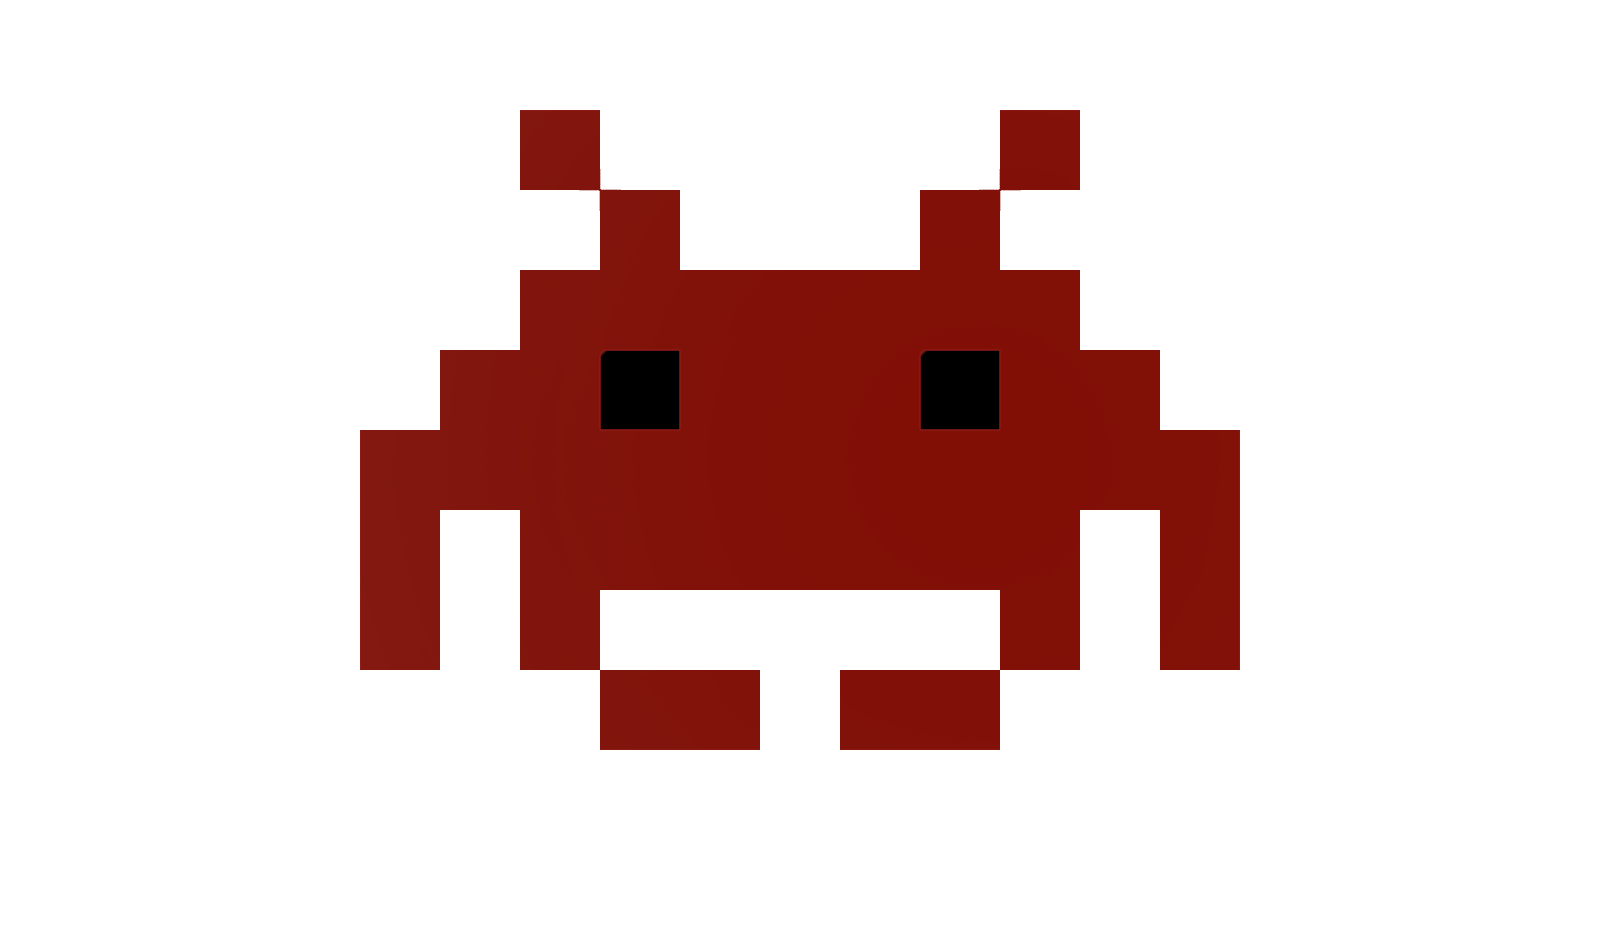
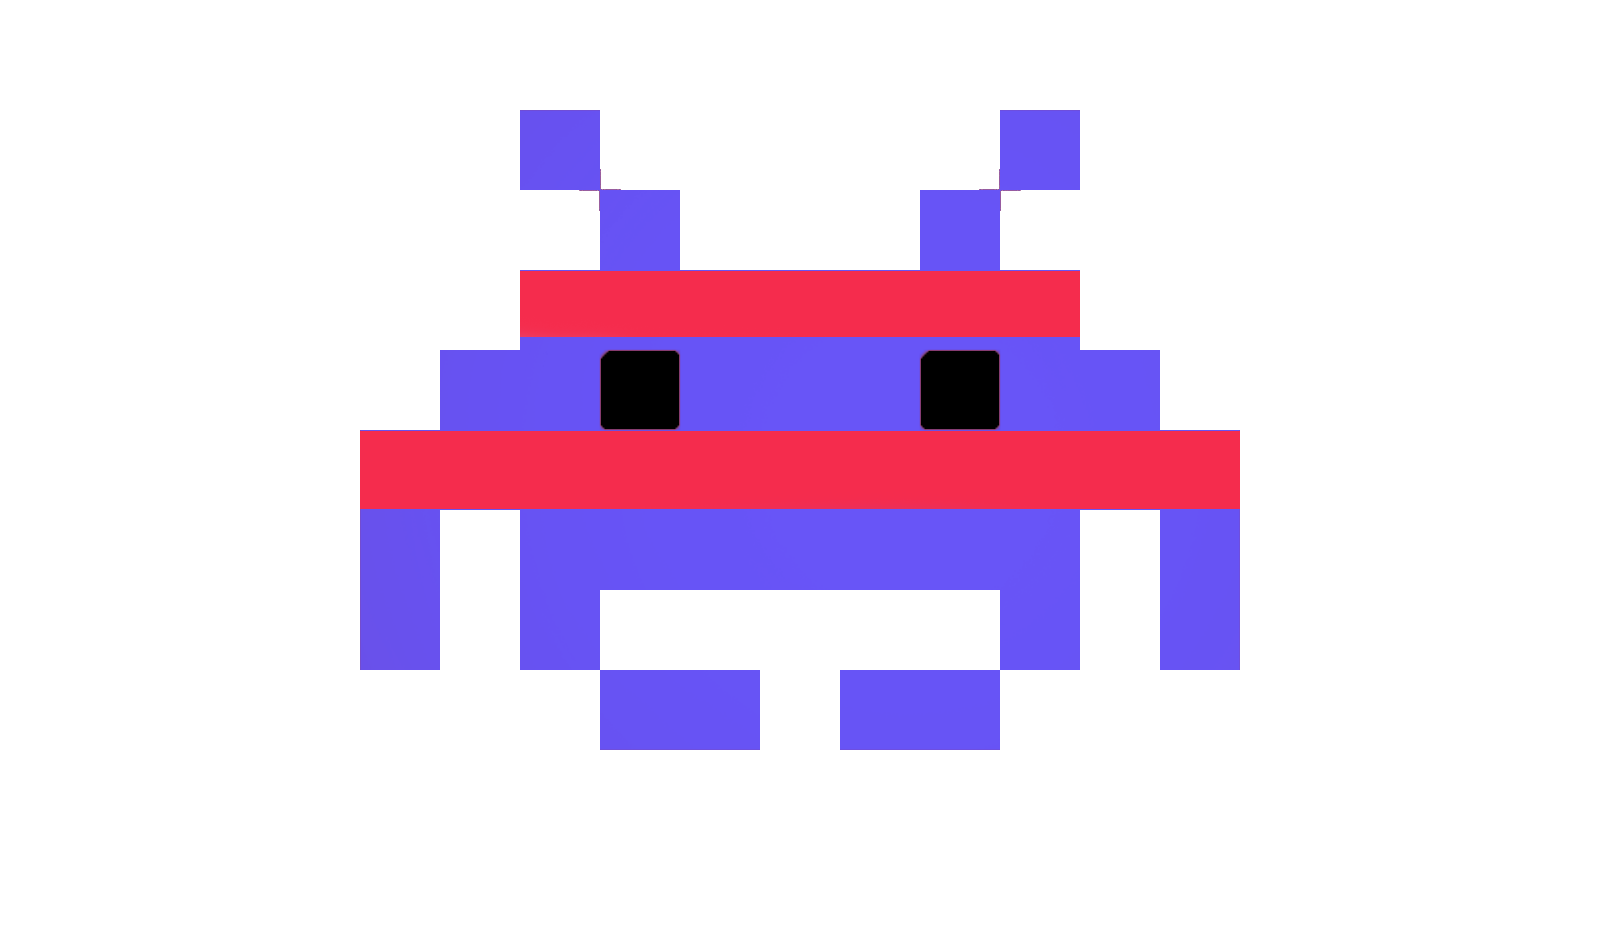
df

Changed region(s): [[0.2188, 0.0916, 0.7812, 0.7937]]

diff --git a/main.js b/main.js
@@ -11,6 +11,8 @@ var img_weapon = new Image();
 
 var img_monster_2 = new Image();
 
+var img_monster_3 = new Image();
+
 
 var bool = 1;
 var frameRateMonster = 800;
@@ -19,7 +21,7 @@ var frameRateWeaponMonster = 220;
 var positionSpaceShipIniX = [];
 var ammo_delay =3000;
 var ammo_amount = 2 ;
-var max_ammo = 10;
+var max_ammo = 15;
 
 
 var touch = new Audio("touch.mp3");
@@ -28,9 +30,9 @@ var gameElement = document.getElementById("game_area");
 var state_btn = document.getElementById("state_btn");
 var scoreElement = document.getElementById("score_display");
 var ammoElement = document.getElementById("ammo_display");
-//var ammo_bar = document.getElementById("ammo_bar");
+var ammo_bar = document.getElementById("ammo_bar");
 
-//ammo_bar.setAttribute("max",max_ammo);
+ammo_bar.setAttribute("max",max_ammo);
 
 // Interval variables
 var weapon_ID;
@@ -84,10 +86,14 @@ var monster  = {
                 if( tabTest[i].vie == 2 ) {
                     ctx.drawImage(img_monster_2, 0, 60, 1600, 950, tabTest[i].x, tabTest[i].y, 65, 40);
                 }
+                if( tabTest[i].vie == 3 ) {
+                    ctx.drawImage(img_monster_3, 0, 60, 1600, 950, tabTest[i].x, tabTest[i].y, 65, 40);
+                }
             }
         };
         img_monster.src = "img/mechant1.png";
         img_monster_2.src = "img/mechant2.png";
+        img_monster_3.src = "img/mechant3.png";
     },
 };
 
@@ -353,7 +359,7 @@ function new_ammo () {
     ammoElement.innerHTML = "Ammo : "+game.ammo;
     new_ammo_ID = setTimeout(new_ammo,ammo_delay);
             
-         //   ammo_bar.setAttribute("value",game.ammo);
+            ammo_bar.setAttribute("value",game.ammo);
         }
 
 }
@@ -388,7 +394,7 @@ function fire() {
             game.ammo--;
             console.log(game.ammo);
             ammoElement.innerHTML = " Ammo : "+game.ammo;
-         //   ammo_bar.setAttribute("value",game.ammo);
+            ammo_bar.setAttribute("value",game.ammo);
             
         }
 

diff --git a/style.css b/style.css
@@ -50,9 +50,9 @@
     z-index : 2;
     display: flex;
     
-    top : 120%;
-    
-    height: 130%;
+    top : 81%;
+    left : 78%;
+    height: 1%;
         
 
     
@@ -60,28 +60,28 @@
 
 
 progress {
-/* style rules */
+
         color : red;
     background-color: red;
 }
 progress::-webkit-progress-bar {
-/* style rules */
+
 
     background-color: black;
     border : 3px;
     border-color :green;
 }
 progress::-webkit-progress-value {
-/* style rules */
+
     background-color: red;
      border : 3px;
     border-color :green;
 } 
 progress::-moz-progress-bar {
         color : red;
-/* style rules */
-}
 
+}
+ 
 
 /*****************************************/
 /***************  Text *********************/

diff --git a/index.html b/index.html
@@ -64,9 +64,8 @@
         
         
         <div id = "ammo_display"> Ammo : 10
-        <br>
-    <!--    <progress  value = "12" id="ammo_bar" >  </progress> -->
         </div>
+        <progress  value = "12" id="ammo_bar" >  </progress> 
         
         <div id= "intro_text" > Hey welcome to SpaceJu 2018 version <br> More explination will come after !  
         </div>
